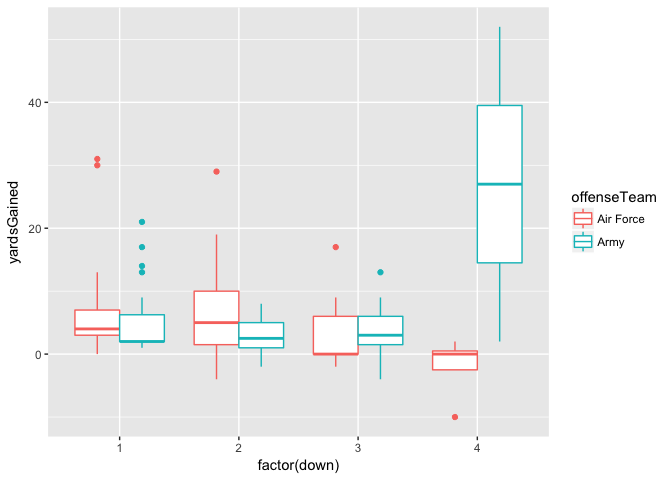
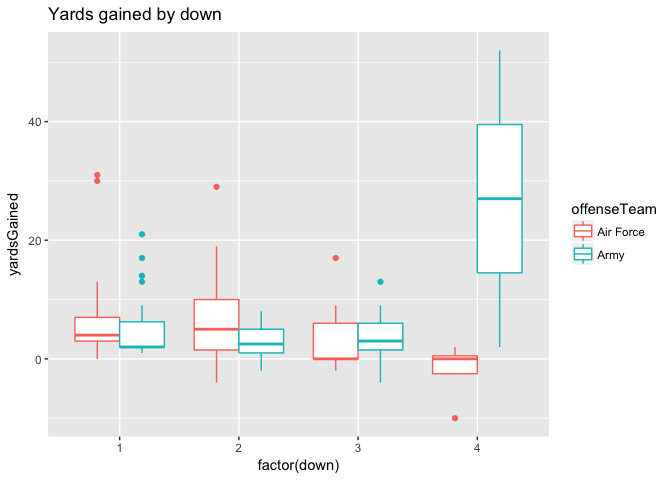
changes

diff --git a/README.md b/README.md
@@ -47,7 +47,7 @@ Data Analysis
 #Yards by quarter
 plays_RushAndPass %>% 
   ggplot(aes(x = factor(quarter), y = yardsGained, color = offenseTeam)) +
-  geom_boxplot() + ggtitle("Yards Gained by quarter")
+  geom_boxplot() + ggtitle("Yards gained by quarter")
 ```
 
 ![](README_files/figure-markdown_github-ascii_identifiers/unnamed-chunk-3-1.png)
@@ -55,7 +55,7 @@ plays_RushAndPass %>%
 ``` r
 #Yards by down
 plays_RushAndPass %>% ggplot(aes(x = factor(down), y = yardsGained, color = offenseTeam)) +
-  geom_boxplot()
+  geom_boxplot() + ggtitle("Yards gained by down")
 ```
 
 ![](README_files/figure-markdown_github-ascii_identifiers/unnamed-chunk-3-2.png)
@@ -83,12 +83,12 @@ plays_RushAndPass %>% group_by(quarter, offenseTeam) %>%
 Question: Does Army gain more yards when they have farther to go for a first down?
 ----------------------------------------------------------------------------------
 
-In this case, our response variable is yards gained and predictor is number of yards to go for a first down.
+In this case, our response variable is yards gained and the predictor is number of yards to go for a first down.
 
 ### Some plots
 
 ``` r
-# filter out when Army is on offense
+# filter out when Army is on defense
 plays_Army <- plays_RushAndPass %>% filter(offenseTeam == "Army") 
 
 plays_Army %>% ggplot(aes(x = distance, y = yardsGained)) + 
@@ -97,7 +97,11 @@ plays_Army %>% ggplot(aes(x = distance, y = yardsGained)) +
 
 ![](README_files/figure-markdown_github-ascii_identifiers/unnamed-chunk-4-1.png)
 
-Some questions to consider: \* Is a linear model appropriate? \* Are there any outliers? \* What does a slope of zero mean?
+Some questions to consider:
+
+-   Is a linear model appropriate?
+-   Are there any outliers?
+-   What does a slope of zero mean?
 
 ### Fit a linear model
 
@@ -126,7 +130,12 @@ summary(model_distance)
     ## Multiple R-squared:  0.002812,   Adjusted R-squared:  -0.01409 
     ## F-statistic: 0.1664 on 1 and 59 DF,  p-value: 0.6848
 
-Some questions: \* How do we interpret the distance coefficient? Intercept? \* Is this result statistically significant? What does that mean? \* What does the residual standard error mean? \* What does this model tell us?
+Some questions:
+
+-   How do we interpret the distance coefficient? Intercept?
+-   Is this result statistically significant? What does that mean?
+-   What does the residual standard error mean?
+-   What does this model tell us?
 
 Perhaps, we can learn more about yards gained by including other information.
 -----------------------------------------------------------------------------
@@ -172,4 +181,9 @@ summary(model_distance_down)
     ## Multiple R-squared:  0.354,  Adjusted R-squared:  0.3079 
     ## F-statistic: 7.672 on 4 and 56 DF,  p-value: 5.302e-05
 
-Some questions: \* How do we interpret the coefficients in this model? \* How would the model change if we did not put factor() around downs in the linear model? \* The distance coefficient changed a lot from the simple model. What are some explanations for that? \* What happened to the residual standard error?
+Some questions:
+
+-   How do we interpret the coefficients in this model?
+-   How would the model change if we did not put factor() around downs in the linear model?
+-   The distance coefficient changed a lot from the simple model. What are some explanations for that?
+-   What happened to the residual standard error?
